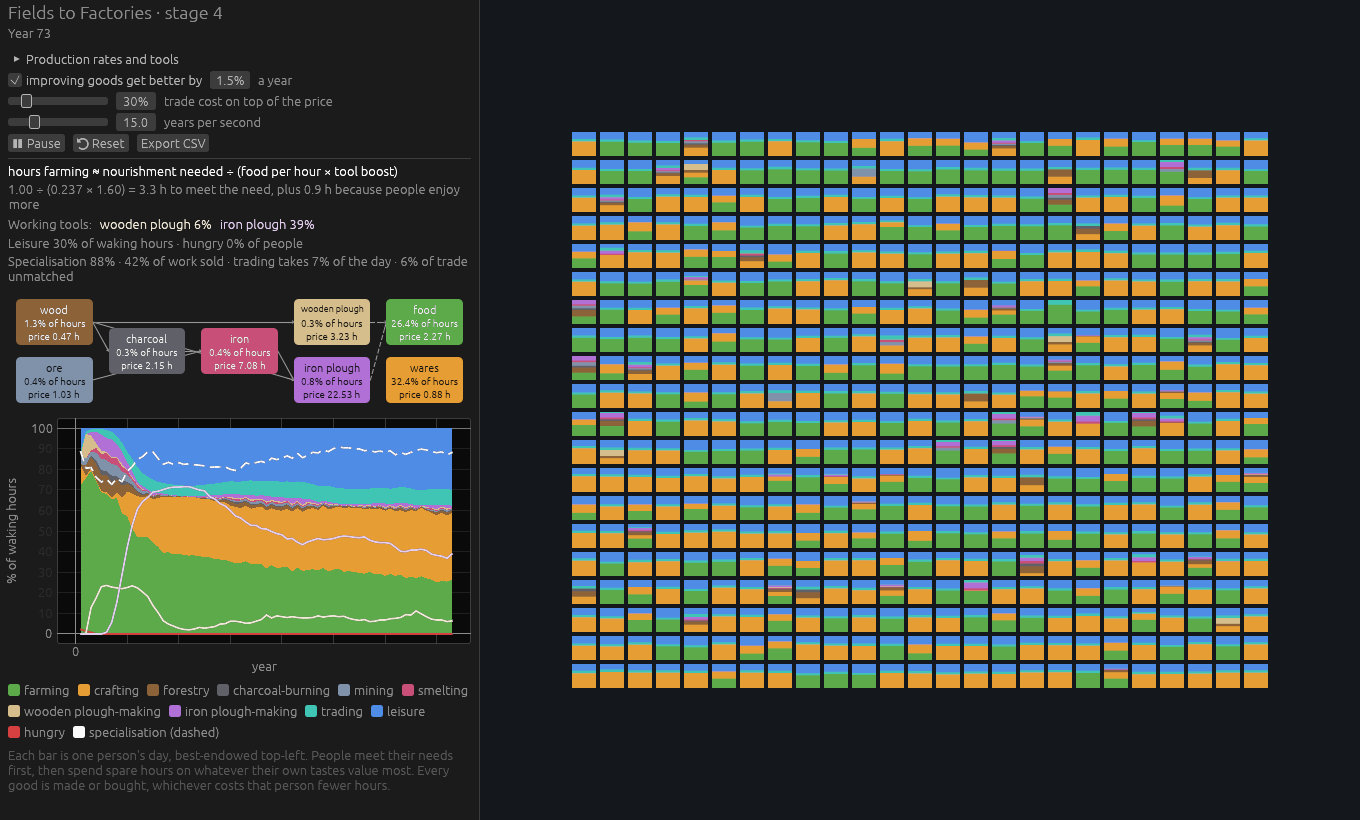
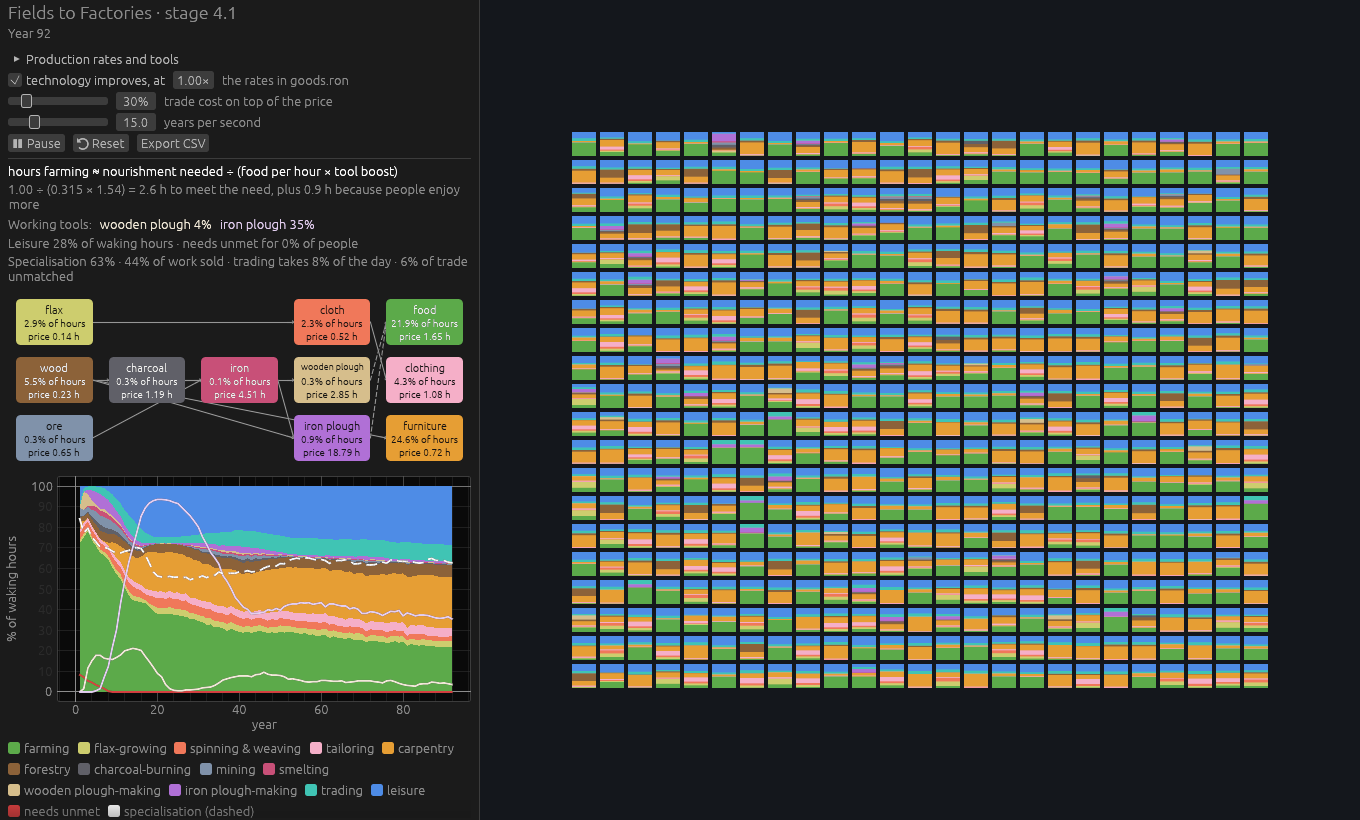
Replace wares with clothing and furniture; per-recipe improvement
Clothing comes from flax and cloth and provides warmth, a new need;
furniture comes from wood and provides comfort. Each recipe now has its
own yearly improvement rate, scaled by a technology-speed setting.
Make-or-buy choices are now gradual, and prices are scaled by the
average wage of people in the market only.

Claude-Session: https://claude.ai/code/session_01WHa9FPce4aCCqRkiJvWon8

diff --git a/src/market.rs b/src/market.rs
@@ -6,6 +6,7 @@ use crate::goods::{Catalog, GoodId};
 
 const PRICE_SPEED: f32 = 0.2;
 const JOB_SPREAD: f32 = 0.1;
+const BUY_SPREAD: f32 = 0.1;
 const ROUTE_PASSES: usize = 4;
 
 #[derive(Resource, Clone)]
@@ -104,7 +105,7 @@ pub fn plan_routes(
 ) -> Routes {
     let n = catalog.len();
     let direct: Vec<f32> = (0..n).map(|g| 1.0 / catalog.direct_rate(g, endowments, owned)).collect();
-    let (mut hours, mut money, mut buy_input) = (vec![0.0; n], vec![0.0; n], vec![false; n]);
+    let (mut hours, mut money, mut buy_share) = (vec![0.0; n], vec![0.0; n], vec![0.0f32; n]);
     let mut wage = 0.0;
     let current = job;
     let mut job = None;
@@ -113,17 +114,17 @@ pub fn plan_routes(
         for &g in &catalog.build_order {
             let (mut h, mut m) = (direct[g], 0.0);
             for &(input, qty) in &catalog.goods[g].recipe.inputs {
-                if buy_input[input] {
-                    m += qty * market.prices[input];
-                    h += qty * market.trading_hours(input, wage);
-                } else {
-                    h += qty * hours[input];
-                    m += qty * money[input];
+                let share = buy_share[input];
+                if share > 0.0 {
+                    m += qty * share * market.prices[input];
+                    h += qty * share * market.trading_hours(input, wage);
                 }
+                h += qty * (1.0 - share) * hours[input];
+                m += qty * (1.0 - share) * money[input];
             }
             hours[g] = h;
             money[g] = m;
-            buy_input[g] = wage > 1e-6 && market.full_cost(g) < h * wage + m;
+            buy_share[g] = if wage > 1e-6 { share_bought(h * wage + m, market.full_cost(g)) } else { 0.0 };
         }
         let earning = |g: GoodId| (market.prices[g] - money[g]) / hours[g];
         let chosen = match (review, current.filter(|&j| earning(j) > 1e-6)) {
@@ -142,13 +143,13 @@ pub fn plan_routes(
         let mut flow = Flow::zero(n);
         flow.hours[g] = direct[g];
         for &(input, qty) in &catalog.goods[g].recipe.inputs {
-            if buy_input[input] {
-                flow.bought[input] += qty;
-                flow.trading += qty * market.trading_hours(input, wage);
-            } else {
-                let sub = make[input].clone();
-                flow.add(&sub, qty);
+            let share = buy_share[input];
+            if share > 0.0 {
+                flow.bought[input] += qty * share;
+                flow.trading += qty * share * market.trading_hours(input, wage);
             }
+            let sub = make[input].clone();
+            flow.add(&sub, qty * (1.0 - share));
         }
         make[g] = flow;
     }
@@ -188,14 +189,25 @@ pub fn plan_routes(
             e
         });
         flows.push(match (made, bought) {
-            (Some(m), Some(b)) if b.total_hours() < m.total_hours() => b,
-            (Some(m), _) => m,
+            (Some(m), Some(b)) => {
+                let share = share_bought(m.total_hours(), b.total_hours());
+                let mut mix = Flow::zero(n);
+                mix.add(&m, 1.0 - share);
+                mix.add(&b, share);
+                mix
+            }
+            (Some(m), None) => m,
             (None, Some(b)) => b,
             (None, None) => unavailable(g),
         });
     }
     let unit_hours = flows.iter().map(Flow::total_hours).collect();
     Routes { flows, unit_hours, wage, job }
+}
+
+fn share_bought(make: f32, buy: f32) -> f32 {
+    let scale = BUY_SPREAD * make.min(buy).max(1e-6);
+    1.0 / (1.0 + ((buy - make) / scale).clamp(-30.0, 30.0).exp())
 }
 
 fn choose_job(earning: &dyn Fn(GoodId) -> f32, n: usize, draw: f32) -> Option<GoodId> {

diff --git a/src/ui.rs b/src/ui.rs
@@ -198,7 +198,7 @@ fn control_panel(
         .resizable(false)
         .show(&mut root, |ui| {
             egui::ScrollArea::vertical().show(ui, |ui| {
-                ui.heading("Fields to Factories · stage 4");
+                ui.heading("Fields to Factories · stage 4.1");
                 ui.label(format!("Year {}", clock.year));
                 ui.add_space(6.0);
                 controls(ui, &mut commands, &mut catalog, &mut economy, &mut market, &mut speed, &definitions, &history);
@@ -258,15 +258,9 @@ fn controls(
         }
     });
     ui.horizontal(|ui| {
-        ui.checkbox(&mut economy.auto_growth, "improving goods get better by");
-        ui.add(
-            egui::DragValue::new(&mut economy.growth_rate)
-                .range(0.0..=0.1)
-                .speed(0.001)
-                .custom_formatter(|v, _| format!("{:.1}%", v * 100.0))
-                .custom_parser(|s| s.trim_end_matches('%').parse::<f64>().ok().map(|v| v / 100.0)),
-        );
-        ui.label("a year");
+        ui.checkbox(&mut economy.progress, "technology improves, at");
+        ui.add(egui::DragValue::new(&mut economy.tech_speed).range(0.0..=5.0).speed(0.02).suffix("×"));
+        ui.label("the rates in goods.ron");
     });
     ui.add(
         egui::Slider::new(&mut market.trade_cost, 0.0..=2.0)
@@ -330,6 +324,9 @@ fn readout(
             continue;
         };
         let good = &catalog.goods[id];
+        if !good.recipe.inputs.is_empty() {
+            continue;
+        }
         let (mut needed, mut actual, mut amount, mut boost) = (0.0, 0.0, 0.0, 0.0);
         for (endowments, needs, time, tools) in people {
             if time.hours.len() != catalog.len() || tools.years_left.len() != catalog.len() {
@@ -380,7 +377,7 @@ fn readout(
         }
     });
     ui.label(format!(
-        "Leisure {:.0}% of waking hours · hungry {:.0}% of people",
+        "Leisure {:.0}% of waking hours · needs unmet for {:.0}% of people",
         last.leisure_share * 100.0,
         last.hungry_share * 100.0
     ));
@@ -576,12 +573,17 @@ fn stacked_chart(ui: &mut egui::Ui, catalog: &Catalog, history: &History) {
         .allow_zoom(false)
         .allow_scroll(false)
         .x_axis_label("year")
+        .x_grid_spacer(egui_plot::uniform_grid_spacer(|input| {
+            let span = input.bounds.1 - input.bounds.0;
+            let step = [10.0, 20.0, 50.0, 100.0].into_iter().find(|s| span / s <= 8.0).unwrap_or(200.0);
+            [step / 5.0, step, step * 5.0]
+        }))
         .y_axis_label("% of waking hours")
         .show(ui, |plot| {
             for (name, color, lower, upper) in &bands {
                 plot.add(FilledArea::new(name.clone(), &xs, lower, upper).fill_color(color32(*color)));
             }
-            plot.line(Line::new("hungry (% of people)", hungry).color(color32(HUNGRY_COLOR)).width(2.0));
+            plot.line(Line::new("needs unmet (% of people)", hungry).color(color32(HUNGRY_COLOR)).width(2.0));
             for (name, color, points) in coverage {
                 plot.line(Line::new(name, points).color(color32(color)).width(2.0));
             }
@@ -599,7 +601,7 @@ fn stacked_chart(ui: &mut egui::Ui, catalog: &Catalog, history: &History) {
         }
         swatch(ui, TRADING_COLOR, "trading");
         swatch(ui, LEISURE_COLOR, "leisure");
-        swatch(ui, HUNGRY_COLOR, "hungry");
+        swatch(ui, HUNGRY_COLOR, "needs unmet");
         swatch(ui, SPECIALISATION_COLOR, "specialisation (dashed)");
     });
 }

diff --git a/src/sim.rs b/src/sim.rs
@@ -95,13 +95,13 @@ pub struct HourValue(pub f32);
 
 #[derive(Resource)]
 pub struct Economy {
-    pub auto_growth: bool,
-    pub growth_rate: f32,
+    pub progress: bool,
+    pub tech_speed: f32,
 }
 
 impl Default for Economy {
     fn default() -> Self {
-        Self { auto_growth: true, growth_rate: 0.015 }
+        Self { progress: true, tech_speed: 1.0 }
     }
 }
 
@@ -248,9 +248,10 @@ fn open_market(mut market: ResMut<Market>, catalog: Res<Catalog>, people: Query<
 
 fn advance_technology(mut catalog: ResMut<Catalog>, economy: Res<Economy>, mut clock: ResMut<Clock>) {
     clock.year += 1;
-    if economy.auto_growth {
-        for good in catalog.goods.iter_mut().filter(|g| g.recipe.improves) {
-            good.recipe.rate = (good.recipe.rate * (1.0 + economy.growth_rate)).min(MAX_RATE);
+    if economy.progress {
+        for good in &mut catalog.goods {
+            let growth = 1.0 + good.recipe.improves * economy.tech_speed;
+            good.recipe.rate = (good.recipe.rate * growth).min(MAX_RATE);
         }
     }
 }
@@ -481,8 +482,10 @@ fn clear_market(mut market: ResMut<Market>, catalog: Res<Catalog>, people: Query
             bought[g] += trades.bought[g];
             sold[g] += trades.sold[g];
         }
-        wages += wage.0;
-        count += 1.0;
+        if wage.0 > 0.0 {
+            wages += wage.0;
+            count += 1.0;
+        }
     }
     market.adjust(bought, sold, wages / count.max(1.0));
 }

diff --git a/src/goods.rs b/src/goods.rs
@@ -22,7 +22,7 @@ pub struct ToolUse {
 pub struct Recipe {
     pub rate: f32,
     pub uses: Option<ResourceId>,
-    pub improves: bool,
+    pub improves: f32,
     pub inputs: Vec<(GoodId, f32)>,
     pub tools: Vec<ToolUse>,
 }
@@ -69,7 +69,7 @@ struct RecipeDef {
     #[serde(default)]
     uses: Option<String>,
     #[serde(default)]
-    improves: bool,
+    improves: f32,
     #[serde(default)]
     inputs: Vec<(String, f32)>,
     #[serde(default)]
@@ -109,6 +109,9 @@ impl Catalog {
         for def in &defs {
             if def.recipe.rate <= 0.0 {
                 return Err(format!("\"{}\" needs a positive rate", def.name));
+            }
+            if def.recipe.improves < 0.0 {
+                return Err(format!("\"{}\" can't improve by a negative amount", def.name));
             }
             let provides = def
                 .provides

diff --git a/README.md b/README.md
@@ -2,7 +2,7 @@
 
 500 people each split a 16-hour waking day across the goods in an economy, trading at a shared market, plus leisure. Two data files define the world:
 
-- [`goods.ron`](goods.ron) holds facts about goods: what each one **provides** (food provides nourishment, wares provide comfort) and how it's made, from raw wood and ore up through charcoal and iron to ploughs.
+- [`goods.ron`](goods.ron) holds facts about goods: what each one **provides** (food provides nourishment, clothing provides warmth, furniture provides comfort), how it's made, and how fast its recipe improves. Raw flax, wood and ore feed chains up to clothing, furniture and ploughs.
 - [`people.ron`](people.ron) holds what people **want and have**: needs, tastes, and how good their land, forest and ore deposits are. Each person draws their own values from the ranges given.
 
 People work out for themselves what any good is worth to them, including tools, which provide nothing directly but save hours. Every good can be made or bought, whichever costs that person fewer hours, so people with good land end up farming for others and people near rich ore end up mining.
@@ -15,7 +15,7 @@ hours farming ≈ nourishment needed ÷ (food per hour × tool boost)
 
 The need doesn't grow, so every gain in farm productivity frees hours for everything else. Better ploughs raise the tool boost, but an iron plough sits at the end of a chain: wood → charcoal, plus ore → iron, then iron + wood → plough. Trade lets each person take part in that chain at whichever step suits their land, forest and ore.
 
-![Year 73](screenshot.png)
+![Year 90](screenshot.png)
 
 ## Run
 
@@ -35,13 +35,14 @@ The first build compiles Bevy and takes several minutes. On Linux you also need 
 3. **Tools are valued by the hours they save.** A plough is worth the farming hours it saves each year, priced at what a spare hour was worth to that person last year, over the plough's discounted lifetime. Someone with no spare hours values a plough at nothing, so the poorest can't invest.
 4. **Tools are whole and wear out at random.** A new tool lasts a number of years drawn from its `lifetime` range, then breaks and must be replaced. Hours put towards a tool build up as progress (or savings, if buying) until there's a whole one. A farmer works with the best tool they own, so an iron plough makes a wooden one pointless.
 5. **Make or buy.** For each good, and each input, a person compares making it with earning the money at their job and buying it. Buying also costs time at market: the trade cost, a share of the price. Hours spent making inputs count in those sectors, and hours spent earning count in the job's sectors.
-6. **Jobs.** A person's job is the good they make to sell; their wage is what an hour of it earns after paying for bought inputs. People start out self-sufficient. Each year about one in five reviews their job and picks one, where better-paying jobs are more likely but not certain.
+6. **Gradual choices.** The cheaper buying is compared with making, the larger the share of a good a person buys, rather than everyone flipping at once.
+7. **Jobs.** A person's job is the good they make to sell; their wage is what an hour of it earns after paying for bought inputs. People start out self-sufficient. Each year about one in five reviews their job and picks one, where better-paying jobs are more likely but not certain.
 
 ## The market
 
 All trade goes through one marketplace. Prices are measured in **hours of an average person's work**, so an iron plough "costs 22 hours". Each year, a good's price rises if more was bought than sold, and falls if the opposite. Buyers pay the price plus time at market; sellers get the price.
 
-The market doesn't clear exactly. Once it has formed, about 8% of trade by value finds no counterpart in a given year: merchants absorb the gap, and prices move to close it. The panel shows this as "unmatched". In the first 10 years, while people are still joining, most trade is unmatched.
+The market doesn't clear exactly. Once it has formed, about 4–5% of trade by value finds no counterpart in a given year: merchants absorb the gap, and prices move to close it. The panel shows this as "unmatched". In the first 10 years, while people are still joining, most trade is unmatched.
 
 ## The definitions
 
@@ -54,7 +55,7 @@ Edit either file and press **Reset** in the app to reload both without recompili
 | `provides` | What one unit gives a person, e.g. `[("nourishment", 1.0)]`. Tools and inputs provide nothing |
 | `recipe.rate` | Units made per hour of work |
 | `recipe.uses` | A resource, e.g. `"ore"`, whose per-person quality scales the rate |
-| `recipe.improves` | Rate grows every year while "improving goods get better" is on |
+| `recipe.improves` | Share the rate grows by each year, e.g. `0.015` for 1.5%, scaled by the "technology improves" setting |
 | `recipe.inputs` | Goods used up per unit, e.g. `[("iron", 2.0), ("wood", 2.0)]` |
 | `recipe.tools` | Tools that multiply this recipe's output; a person works with the best one they own |
 | `lifetime` | Makes the good a tool: the years it lasts before breaking, drawn from the range, e.g. `(15.0, 35.0)` |
@@ -64,7 +65,7 @@ Edit either file and press **Reset** in the app to reload both without recompili
 | Field | Meaning |
 |---|---|
 | `endowments` | Quality of each resource (`land`, `forest`, `ore`) a person has access to; must be above zero |
-| `needs` | Amount of a characteristic needed per day; met before anything else |
+| `needs` | Amount of a characteristic needed per day; met before anything else, in the order listed (nourishment, then warmth) |
 | `preferences` | Enjoyment beyond the need: `Log(weight)` is always wanted at a falling rate; `Saturating(weight, scale)` is wanted until about `scale` extra |
 | `leisure` | Weight on free time |
 | `discount_rate` | How much less next year matters; with wear, sets how far ahead tools are valued |
@@ -73,6 +74,7 @@ The loaders reject unknown goods, duplicate names, tools without a lifetime (or 
 
 ## The panel
 
+- **Technology improves, at N×:** multiplies every recipe's `improves` rate. 0× freezes technology; 2× doubles every rate of progress.
 - **Trade cost:** time spent trading, as a share of the price. Drag it to 0% for free trade, or 200% to make trade pointless.
 - **Production tree:** raw materials on the left, what people consume on the right. Solid arrows are inputs, dashed arrows are tools, and each node shows its share of all waking hours and its price.
 - **Chart:** share of waking hours by sector, stacked to 100% with trading and leisure on top, plus a line per tool showing the share of people who own one, and a dashed line for specialisation.
@@ -80,17 +82,19 @@ The loaders reject unknown goods, duplicate names, tools without a lifetime (or 
 
 ## Things to try
 
-- **Watch the grid specialise.** Bars start as a mix of everything and sort into farmers (green), crafters (orange), and a few foresters, miners and smiths.
+- **Watch the grid specialise.** Bars start as a mix of everything and sort into farmers (green), carpenters (orange), weavers and tailors (coral and pink), and a few foresters, miners and smiths.
+- **Watch where freed time goes.** Farming shrinks, and so does weaving, which improves fastest (2% a year). Tailoring and carpentry improve slowly (0.5%), so they hold on to workers or grow: carpentry rises to about a third of the day by year 200. This is **Baumol's cost disease**: labour moves into the sectors whose productivity *doesn't* rise. Try giving carpentry `improves: 0.02` and see the hours go to leisure instead.
 - **Change the trade cost and compare.** At year 100, compared with no trade:
 
   | At year 100 | Cheap trade (5%) | Default (30%) | No trade (300%) |
   |---|---|---|---|
-  | Farming | 22% of the day | 20% | 36% |
-  | Leisure | 36% | 33% | 31% |
-  | Specialisation | 96% | 91% | 55% |
+  | Farming | 20% of the day | 20% | 32% |
+  | Leisure | 31% | 29% | 28% |
+  | Specialisation | 78% | 64% | 46% |
 
-  These are the gains from trade: people with good land farm for everyone, and everyone gets more free time.
+  These are the gains from trade: people with good land farm for everyone, and everyone gets more free time. Specialisation counts the share of a person's work in their main sector; many people buy part of a good and make the rest, so it stays well below 100%.
 - **Watch years 2–10.** Cheap wooden ploughs spread first, then iron ploughs take over as a mining, charcoal and smelting chain forms.
+- **Watch for an echo.** Iron-plough ownership peaks around year 20, then dips as that whole cohort of ploughs wears out at once, then recovers more smoothly.
 - **Cause a shortage.** Open "Production rates and tools" and drag "ore per hour" down. Iron's price rises, iron ploughs disappear, and farming takes longer.
 - **Add a second source of nourishment,** for example fish with `provides: [("nourishment", 1.0)]` and `recipe: (rate: 0.1)`, then press Reset. Nothing in the code knows fish and food are alternatives; they both provide nourishment.
 - **Export CSV** writes `history.csv` with each good's rate and price, each sector's share of hours, trading time, specialisation, unmatched trade and tool ownership.

diff --git a/CHANGELOG.md b/CHANGELOG.md
@@ -1,5 +1,24 @@
 # Changelog
 
+## Stage 4.1: real goods for freed time
+
+### Changed
+- **Wares are gone,** replaced by real goods for different wants:
+  - **Clothing** comes from a textile chain (flax on land → cloth → clothing) and provides **warmth**. Warmth is a new need, met right after nourishment, and also a taste beyond it.
+  - **Furniture** is made from wood and provides **comfort**, the open-ended want.
+- **Each recipe has its own improvement rate.** `improves: true` became `improves: 0.015` (1.5% a year). Weaving improves fastest (2%), farming 1.5%, flax and iron 1%, and tailoring, carpentry, forestry and mining 0.5%. The panel's growth control became a "technology improves, at N×" multiplier.
+- **Buying is gradual.** The cheaper buying is compared with making, the larger the share of a good (or input) a person buys. Before, everyone flipped at once, which made flax swing between all-bought and all-sold from year to year.
+- "Hungry" became "needs unmet", since there are now two needs.
+
+### Fixed
+- **Prices were scaled by an average wage that counted the self-sufficient as earning 0,** which inflated every price about fivefold while the market was forming.
+- **The chart's year axis** showed no labels between years 50 and 100.
+
+### Results
+- Unmatched trade fell from about 8% to 4–5% a year once the market has formed.
+- Baumol's cost disease appears: weaving shrinks from 3–4% to under 1% of hours as it mechanises, while slow-improving carpentry grows to about a third of the day by year 200, and forestry grows with it.
+- Iron-plough ownership shows an investment echo: it peaks around year 20, then dips as that cohort wears out.
+
 ## Stage 4: trade
 
 ### Added
